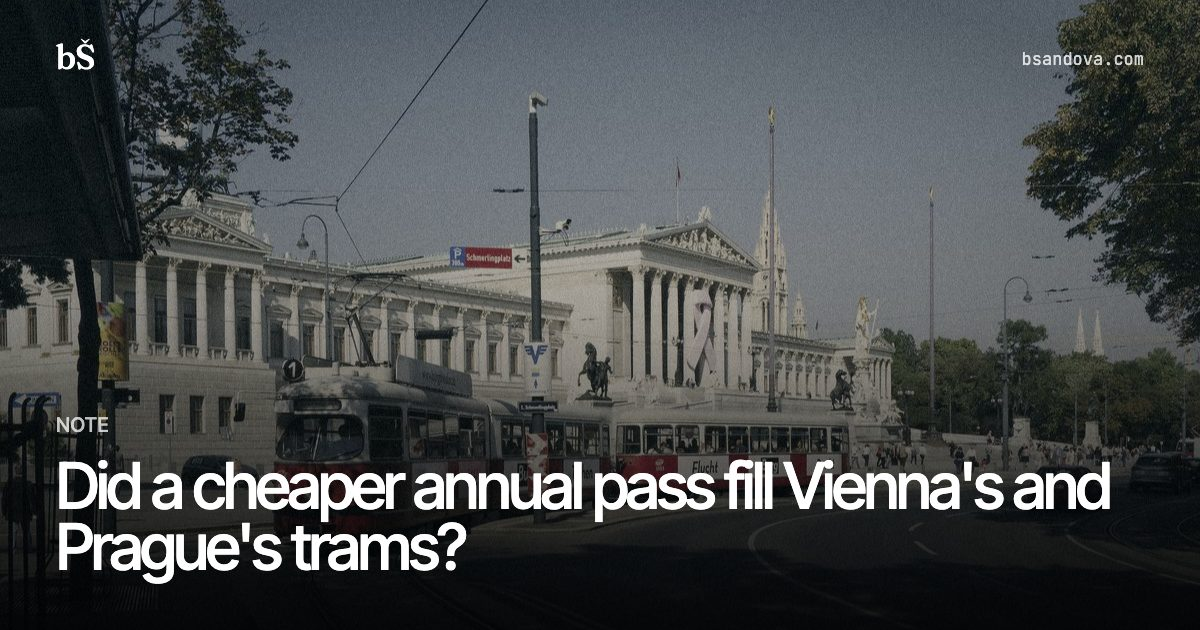
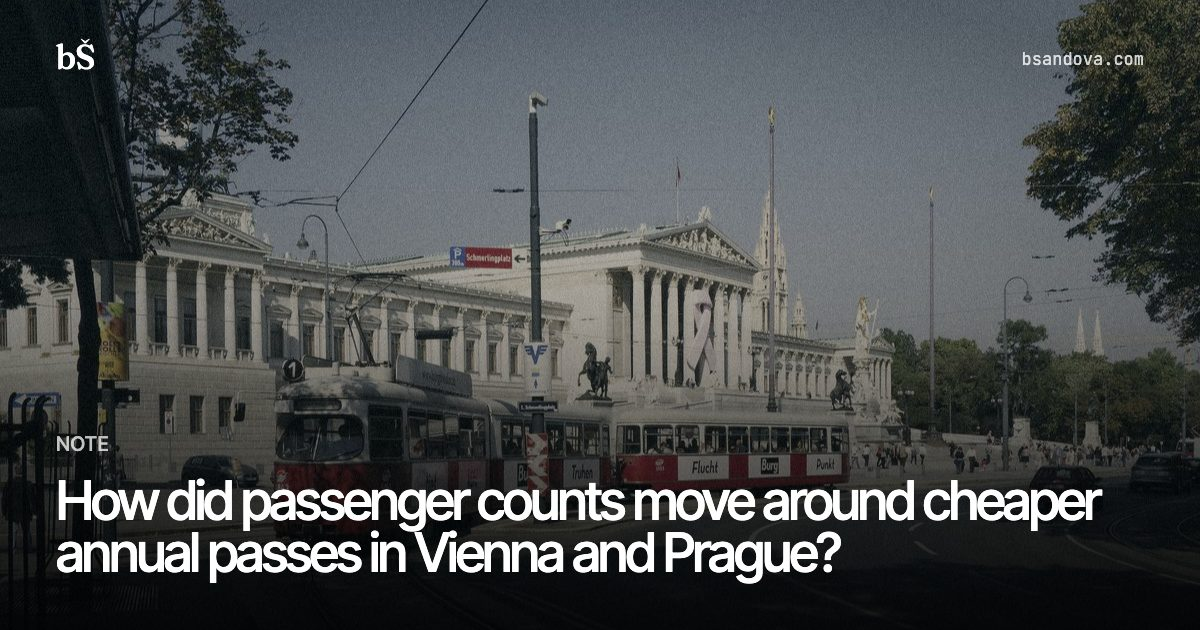
hotfix(site): descriptive titles and wording left over from the site-wide review

Changed region(s): [[0.0308, 0.6635, 0.925, 0.9349]]

diff --git a/texts/annual-pass.html b/texts/annual-pass.html
@@ -3,9 +3,9 @@
 <head>
 <meta charset="utf-8">
 <meta name="viewport" content="width=device-width, initial-scale=1">
-<title>Did a cheaper annual pass fill Vienna's and Prague's trams? · Barbora Šandová</title>
+<title>How did passenger counts move around cheaper annual passes in Vienna and Prague? · Barbora Šandová</title>
 <meta name="description" content="A descriptive note: annual passengers in Vienna, Prague and Brno, 2005–2025, around the annual-pass cuts of 2012 and 2015, and Berlin around the 9-euro ticket and the Deutschlandticket. No effect is estimated: the published data allow no fair comparison.">
-<meta property="og:title" content="Did a cheaper annual pass fill Vienna's and Prague's trams?">
+<meta property="og:title" content="How did passenger counts move around cheaper annual passes in Vienna and Prague?">
 <meta property="og:description" content="Vienna's passengers grew faster before its 2012 price cut than after it; Prague's counts change method a year before its 2015 cut. Why the published data cannot answer the question.">
 <meta property="og:type" content="article">
 <meta property="og:url" content="https://bsandova.com/texts/annual-pass">
@@ -34,7 +34,7 @@
 </style>
 
 <!-- ld --><link rel="alternate" type="application/atom+xml" title="Barbora Šandová" href="/feed.xml">
-<script type="application/ld+json">{"@context": "https://schema.org", "@type": "Article", "headline": "Did a cheaper annual pass fill Vienna's and Prague's trams?", "description": "A descriptive note: annual passengers in Vienna, Prague and Brno, 2005–2025, around the annual-pass cuts of 2012 and 2015, and Berlin around the 9-euro ticket and the Deutschlandticket. No effect is estimated: the published data allow no fair comparison.", "url": "https://bsandova.com/texts/annual-pass", "image": "https://bsandova.com/assets/og/annual-pass.jpg", "author": {"@type": "Person", "name": "Barbora Šandová", "url": "https://bsandova.com/"}}</script><!-- /ld -->
+<script type="application/ld+json">{"@context": "https://schema.org", "@type": "Article", "headline": "How did passenger counts move around cheaper annual passes in Vienna and Prague?", "description": "A descriptive note: annual passengers in Vienna, Prague and Brno, 2005–2025, around the annual-pass cuts of 2012 and 2015, and Berlin around the 9-euro ticket and the Deutschlandticket. No effect is estimated: the published data allow no fair comparison.", "url": "https://bsandova.com/texts/annual-pass", "image": "https://bsandova.com/assets/og/annual-pass.jpg", "author": {"@type": "Person", "name": "Barbora Šandová", "url": "https://bsandova.com/"}}</script><!-- /ld -->
 </head>
 <body>
 <div class="top"><b><a href="../" aria-label="bŠ, bsandova.com, home">bŠ</a></b><nav><a href="../#work">Work</a><a href="../#works">All work</a><a href="../#about">About</a><a href="../ask/" class="ask-link">Ask</a><a href="../#contact">Contact</a></nav><span class="tr">note · transit · en</span></div>
@@ -42,7 +42,7 @@
 <article class="text">
 <header class="text-head">
   <p class="kicker">Note · transit · annual passes in Vienna, Prague and Brno, 2005–2025</p>
-  <h1>Did a cheaper annual pass fill <em>Vienna's and Prague's trams?</em></h1>
+  <h1>How did passenger counts move around <em>cheaper annual passes in Vienna and Prague?</em></h1>
   <p class="deck">Vienna cut its annual pass in 2012 and Prague in 2015. The published passenger counts cannot say what the cuts did: too few cities count passengers the same way every year, most of the region cut prices too, and Prague changed how it counts a year before its cut. This note shows the series and why they cannot carry an estimate.</p>
   <dl class="facts">
     <div><dt>annual-pass cut</dt><dd>−19 % · −23 % <small>Vienna 1 May 2012, €449 → €365 · Prague 1 July 2015, CZK 4&nbsp;750 → 3&nbsp;650 · tariff documents</small></dd></div>
@@ -62,7 +62,7 @@
   </ul>
 </details>
 <dl class="meta">
-  <div><dt>published</dt><dd>6 October 2026 · updated 9 October 2026 · <a href="../changelog/#annual-pass">version 2</a></dd></div>
+  <div><dt>published</dt><dd>6 October 2026 · updated 9 October 2026 · <a href="../changelog/#annual-pass">version 3</a></dd></div>
   <div><dt>work since</dt><dd>October 2026</dd></div>
 </dl>
 <details class="meta-more">
@@ -72,7 +72,7 @@
   <div><dt>registration</dt><dd>registered analysis plan: design committed at <code>64cd225</code> on 5 October 2026, before the passenger counts were committed at <code>8be63f3</code> on 6 October 2026; commit times are self-reported. GitHub's activity log shows the design on the public branch from 21:36 UTC on 5 October 2026; a push is not a tamper-evident anchor. The synthetic-control design and the staggered difference-in-differences that replaced it (<code>4cbd737</code>) were both found not estimable by their own unit rules, and the study became this note on 6 October 2026<sup class="cite"><a href="#r1">1</a></sup>. Changes, including the extension of the window to 2025 and the Berlin and Germany block, are dated in <a href="../changelog/#annual-pass">the change log</a>.</dd></div>
   <div><dt>data</dt><dd>operator and statistics-office passenger counts and tariff documents, collected 6 October 2026<sup class="cite"><a href="#r2">2</a></sup><sup class="cite"><a href="#r3">3</a></sup><sup class="cite"><a href="#r4">4</a></sup><sup class="cite"><a href="#r5">5</a></sup><sup class="cite"><a href="#r6">6</a></sup>; every row with its source in <a href="../assets/transit/passengers.csv">passengers.csv</a> and <a href="../assets/transit/prices.csv">prices.csv</a></dd></div>
   <div><dt>code</dt><dd><a href="https://github.com/sandovabarbora/bsandova.com/tree/main/tools/transit">tools/transit/</a>; figures: <code>uv run --with matplotlib --with pandas python tools/transit/note.py</code></dd></div>
-  <div><dt>cite as</dt><dd>Šandová, B. (2026). <i>Did a cheaper annual pass fill Vienna's and Prague's trams?</i> bsandova.com/texts/annual-pass, version 2.</dd></div>
+  <div><dt>cite as</dt><dd>Šandová, B. (2026). <i>How did passenger counts move around cheaper annual passes in Vienna and Prague?</i> bsandova.com/texts/annual-pass, version 3.</dd></div>
   <div><dt>licence</dt><dd>code MIT; text, figures and data CC BY 4.0</dd></div>
 </dl>
 </details>

diff --git a/texts/prague-programmes-2026.html b/texts/prague-programmes-2026.html
@@ -82,7 +82,7 @@ details.prog[open]>summary::after{content:"−"}
 <article class="text">
 <header class="text-head">
   <p class="kicker">Note · 1 October 2026 · Prague city election programmes</p>
-  <h1>What Prague's 2026 programmes can do <em>in one term</em></h1>
+  <h1>What can Prague's 2026 programmes deliver <em>in one term?</em></h1>
   <p class="deck">Six programmes for the October 2026 Prague city election, read against one rule: what the City of Prague can do within four years under its own powers.</p>
   <dl class="facts">
     <div><dt>promises read</dt><dd>80 <small>six programmes · rows chosen by the author · descriptive count</small></dd></div>
@@ -103,7 +103,7 @@ details.prog[open]>summary::after{content:"−"}
   </ul>
 </details>
 <dl class="meta">
-  <div><dt>published</dt><dd>1 October 2026 · updated 8 October 2026 · <a href="../changelog/#prague-programmes-2026">version 5</a></dd></div>
+  <div><dt>published</dt><dd>1 October 2026 · updated 9 October 2026 · <a href="../changelog/#prague-programmes-2026">version 5</a></dd></div>
   <div><dt>work since</dt><dd>September 2026</dd></div>
 </dl>
 <details class="meta-more">
@@ -798,7 +798,7 @@ details.prog[open]>summary::after{content:"−"}
 <li id="r10">Zákon č. 372/2011 Sb., o zdravotních službách, §111 odst. 1 (university hospitals are state organisations founded by the Ministry of Health). <a href="https://www.zakonyprolidi.cz/cs/2011-372">www.zakonyprolidi.cz/cs/2011-372</a> Accessed 1 October 2026.</li>
 <li id="r11">Zákon č. 201/2012 Sb., o ochraně ovzduší, §14 odst. 1 and 6 (the municipal council sets a low-emission zone by a general measure, effective at least 12 months after it is announced) and §14a odst. 1 and 7 (the municipality may add a low-emission fee by ordinance, at most 500 Kč a day times the inflation coefficient). <a href="https://www.zakonyprolidi.cz/cs/2012-201">www.zakonyprolidi.cz/cs/2012-201</a> Accessed 1 October 2026.</li>
 <li id="r12">Zákon č. 338/1992 Sb., o dani z nemovitých věcí, version effective 1 October 2025, §12 odst. 1 (a local coefficient of 0.5–5, set by ordinance for the whole municipality, a part of it or a group of property, or by a general measure of the assembly for specified, named properties; the law has no category for empty flats). <a href="https://www.zakonyprolidi.cz/cs/1992-338">www.zakonyprolidi.cz/cs/1992-338</a> Accessed 1 October 2026.</li>
-<li id="r13">Šandová, B. (2026). How long does a Prague flat take, from permit to completion? (Prague, measured, Part 4): 4.5 completions per 1 000 residents a year, 2015–2024; permit to completion about 11 months longer than elsewhere in Czechia, a difference in the recorded pipeline that may partly be reporting timing and says nothing about how long the permit itself takes. <a href="https://bsandova.com/texts/prague-housing">bsandova.com/texts/prague-housing</a> Accessed 1 October 2026.</li>
+<li id="r13">Šandová, B. (2026). Do completions follow permits later in Prague than in the rest of Czechia? (Prague, measured, Part 4): 4.5 completions per 1 000 residents a year, 2015–2024; permit to completion about 11 months longer than elsewhere in Czechia, a difference in the recorded pipeline that may partly be reporting timing and says nothing about how long the permit itself takes. <a href="https://bsandova.com/texts/prague-housing">bsandova.com/texts/prague-housing</a> Accessed 1 October 2026.</li>
 <li id="r14">Dopravní podnik hl. m. Prahy, Metro D: &#x27;Plán zprovoznění: 2032&#x27; (planned opening 2032); schedule (harmonogram) as of 8 April 2026. <a href="https://www.dpp.cz/metro-d">www.dpp.cz/metro-d</a> Accessed 3 October 2026.</li>
 <li id="r15">Nařízení (EU) 2024/1028 o shromažďování a sdílení údajů týkajících se služeb krátkodobého pronájmu ubytování (registration and data sharing for short-term rentals; applies from 20 May 2026). <a href="https://eur-lex.europa.eu/eli/reg/2024/1028/oj">eur-lex.europa.eu/eli/reg/2024/1028/oj</a> Accessed 3 October 2026.</li>
 <li id="r16">Obecně závazná vyhláška hl. m. Prahy č. 18/2019 Sb. hl. m. Prahy, o místním poplatku z pobytu, §3 (the rate is 50 Kč a person for each day begun). Accessed 3 October 2026.</li>

diff --git a/texts/running-late.html b/texts/running-late.html
@@ -4,9 +4,9 @@
 <meta charset="utf-8">
 <meta name="viewport" content="width=device-width, initial-scale=1">
 <title>Running late · Barbora Šandová</title>
-<meta name="description" content="Pre-specified studies of where and why Prague's trams fall behind, from the stop passes of 2025: a tenth of the segments record 50.6 % of the delay, narrowly, the same ones in odd and even weeks; and the spacing between two trams of a line shows practically no amplification from stop to stop; and a connection planned three minutes apart is made 80 times in a hundred.">
+<meta name="description" content="Pre-specified studies of where and how Prague's trams fall behind, from the stop passes of 2025: a tenth of the segments record 50.6 % of the delay, narrowly, the same ones in odd and even weeks; and the spacing between two trams of a line shows practically no amplification from stop to stop; and a connection planned three minutes apart is made 80 times in a hundred.">
 <meta property="og:title" content="Running late">
-<meta property="og:description" content="Where and why Prague's trams fall behind, one pre-specified question at a time: where delay is recorded, why two trams of a line come at once, and whether you make your connection.">
+<meta property="og:description" content="Where and how Prague's trams fall behind, one pre-specified question at a time: where delay is recorded, why two trams of a line come at once, and whether you make your connection.">
 <meta property="og:type" content="article">
 <meta property="og:url" content="https://bsandova.com/texts/running-late">
 <meta property="og:image" content="https://bsandova.com/assets/og/running-late.jpg">
@@ -28,7 +28,7 @@
 <header class="text-head">
   <p class="kicker">Hub · Running late · Prague trams and buses, spring and summer 2025</p>
   <h1>Running <em>late</em></h1>
-  <p class="deck">Where and why Prague's trams fall behind, asked one question at a time of the stop passes behind the author's thesis, each question registered before the data that answers it was read.</p>
+  <p class="deck">Where and how Prague's trams fall behind, asked one question at a time of the stop passes behind the author's thesis, each question registered before the data that answers it was read.</p>
   <dl class="facts">
     <div><dt>parts published</dt><dd>3 <small>numbered by publication order</small></dd></div>
     <div><dt>design committed</dt><dd>8 Oct 2026 <small>CEST, commit times self-reported</small></dd></div>
@@ -82,7 +82,7 @@
 </section>
 
 <section>
-<p>The series sits next to <a href="weather-rails">Weather on the rails</a>, which asks what rain and heat do to the same trams.</p>
+<p>The series sits next to <a href="weather-rails">Weather on the rails</a>, which describes how the same trams' delays differ in rain and heat.</p>
 </section>
 
 <footer class="text-foot">

diff --git a/docs/changelogs/prague-programmes-2026.html b/docs/changelogs/prague-programmes-2026.html
@@ -1,4 +1,5 @@
 <ul>
+<li>9 October 2026: reference 13 now cites Part 4 of Prague, measured under its current title, "Do completions follow permits later in Prague than in the rest of Czechia?" (it was retitled on 9 October 2026); its wording is unchanged. The heading now asks the same question as the title ("What can Prague's 2026 programmes deliver in one term?"), which the retitling of 6 October 2026 had left as "What Prague's 2026 programmes can do in one term". No rating or number changed.</li>
 <li>8 October 2026: promises within each programme listed from yes to 'state or another body'; fig. 1 shows shares instead of counts and orders the programmes by the share rated yes or likely, with a sentence on what that order does not measure. No rating or number changed.</li>
 <li>8 October 2026, version 5, after a second review of every row: a chart of the ratings by programme and filters by rating were added, and the five ratings are set out as a list. Corrected: a low-emission zone can carry an entry fee set by the City Assembly's ordinance since the 2026 amendment of the air protection act (the Piráti row had said it needed a law); residents' parking prices follow the price rules within zones the city sets; a change of the Statute is discussed with the districts. Seven ratings changed, so the counts changed ('within the city's powers' from 28 to 31; yes from 11 to 9, likely from 17 to 22, partly from 34 to 32, 'state or another body' from 14 to 13, not in one term unchanged at 4): SPD's motorway ring and radials from 'state or another body' to partly, because the radials are city roads; SPD's points system for city flats from yes to likely, because how far priority for locals can go is unsettled; STAN's district funding from yes to likely, because the districts must be consulted; STAN's Vltava Philharmonic and 2 000 flats started, and Praha Sobě's 8 000 flats prepared, from partly to likely, because the promise is a start or preparation. Short-term rentals are now described the same way in every row, with the EU registration rules from May 2026; citations that did not support their sentence were removed (the public transport act from tram lines and step-free stops, the Constitution from the pre-emption right); the tourist fee is '50 Kč a person a night' throughout; ANO's source, a candidate page rather than a programme, is stated in the method. No other number changed.</li>
 <li>6 October 2026: retitled from "What Prague's 2026 programmes can do in one term" to a question; text and numbers unchanged.</li>

diff --git a/docs/changelogs/bunching.html b/docs/changelogs/bunching.html
@@ -11,6 +11,7 @@
 </ul>
 <h4>Change log</h4>
 <ul>
+<li>9 October 2026: the page description says the rare sudden closings concentrate on some platforms "and partly by line" instead of "partly because of one line", the wording of the article, which locates the closings but does not explain them. No number or finding changed.</li>
 <li>9 October 2026: the link to part 1 of Weather on the rails carries that article's new title, "Are Prague's trams later in rain hours?"; nothing else changed.</li>
 <li>8 October 2026, version 2, after an independent review: retitled "Why do two 22s come at once? Tram bunching in Prague, 2025" (the analysis covers pairs only; the URL is kept). Amplification relabelled from "not supported" to "inconclusive" (the registered rule had been applied in the wrong order), read as practically zero, with the sign flipping without timing-point stops and on departures. Concentration of sudden closings keeps its registered "supported" but is no longer read as places that make bunches: re-openings, the reversed-order placebo and closings to under a third of the gap concentrate as much or more, and a post-hoc null within route variants gives a lower ratio. Stability of the places keeps "not supported", now marked uninformative, with a stable line effect as an alternative reading. The link to part 1 keeps "supported", now marked not informative (built in), and leaves the short version. The shuffle is no longer read as showing bunches build as fast as independent drift: it lets trams swap order and is not a valid benchmark near zero. "Where the spacing suddenly closes it also suddenly reopens" replaced by the counts of closings and re-openings and what the platform correlation measures. The dropped trips with a missing row and the floor this sets on bunching shares are stated, with the full account of how bunches form. Wording: the first-stage coefficient, "eligible pair-stops", 0.9989 shown unrounded, Anderson and Hsiao as the inspiration of the estimator, holding at long-dwell stops as an inference, the TCQSM cut-offs as unchecked conventions, the range of the amplification by line, and the bus estimate set against the spread of the tram estimates. Review claims reworded: the design draft was reviewed twice by an independent model-based reviewer; the article's review before publication was a self-review by the agent that wrote it. Registration tags cited beside the commit hashes.</li>
 <li>8 October 2026, version 1: first published, as part 2 of Running late.</li>

diff --git a/index.html b/index.html
@@ -290,7 +290,7 @@ main :focus-visible,.ft :focus-visible{outline-color:currentColor}
         <li class="sub"><a href="texts/delay-origins"><span class="t">Part 1 · Where is delay born on Prague&#x27;s trams?</span><span class="c">Research</span><span class="s">pre-specified</span><span class="y" title="published 8 Oct 2026">Oct 2026</span></a></li>
         <li class="sub"><a href="texts/bunching"><span class="t">Part 2 · Why do two 22s come at once? Tram bunching in Prague, 2025</span><span class="c">Research</span><span class="s">pre-specified</span><span class="y" title="published 8 Oct 2026">Oct 2026</span></a></li>
         <li class="sub"><a href="texts/transfers"><span class="t">Part 3 · Will you make your connection?</span><span class="c">Research</span><span class="s">pre-specified</span><span class="y" title="published 8 Oct 2026">Oct 2026</span></a></li>
-        <li><a href="texts/annual-pass"><span class="t">Did a cheaper annual pass fill Vienna&#x27;s and Prague&#x27;s trams?</span><span class="c">Note</span><span class="s">note, descriptive</span><span class="y" title="published 6 Oct 2026">Oct 2026</span></a></li>
+        <li><a href="texts/annual-pass"><span class="t">How did passenger counts move around cheaper annual passes in Vienna and Prague?</span><span class="c">Note</span><span class="s">note, descriptive</span><span class="y" title="published 6 Oct 2026">Oct 2026</span></a></li>
         <li><a href="texts/dst-darkness"><span class="t">When the clocks go back: evening darkness and pedestrian crashes in Czechia</span><span class="c">Research</span><span class="s">pre-specified</span><span class="y" title="published 3 Oct 2026">Oct 2026</span></a></li>
         <li><a href="texts/delayed"><span class="t">Delayed All the Time: Prague public transport as sound</span><span class="c">Note · sonification</span><span class="s">note</span><span class="y" title="published 14 Sep 2026">Sep 2026</span></a></li>
         <li><a href="texts/thesis"><span class="t">Persistence Dynamics and Welfare Costs of Urban Public Transport Delays</span><span class="c">Master&#x27;s thesis · Charles University</span><span class="s">exploratory</span><span class="y">Jul 2026</span></a></li>

diff --git a/docs/changelogs/annual-pass.html b/docs/changelogs/annual-pass.html
@@ -1,4 +1,5 @@
 <ul>
+<li>9 October 2026, version 3: retitled from "Did a cheaper annual pass fill Vienna's and Prague's trams?" to "How did passenger counts move around cheaper annual passes in Vienna and Prague?" (URL unchanged), because the old title asked a causal question that a descriptive note cannot answer; title, heading, share card and citation updated. No number changed.</li>
 <li>9 October 2026, version 2, corrections: "3 of 17 cities with a clean series" is now "3 → 2 of 17": the panel screen as run passed Vienna, Prague and Brno (<code>annual-pass-panel-units.md</code>), and on re-reading Prague fails its rule 1 because of the 2014 change of counting method, which leaves two. Brno did not "keep its price": its pass rose in December 2008 (3 700 → 4 430 CZK) and January 2012 (→ 4 750 CZK), per the IDS JMK price lists in <code>prices.csv</code>, and has been unchanged since 2012. Vienna's growth after the cut is now given for 2011–2019 (1.2 % a year), with the +3.6 % step from 2011 to 2012 stated, instead of 2012–2019 (0.8 %), which left the cut year's step out. "Often credited with filling its trams" is softened to "became a reference for other cities", as no source for the claim is cited; "in the years of the cheap tickets" and "recovered after the cheap tickets" are reworded so that they do not imply an effect. Confounders are named: the U2 extensions of 2008, 2010 and 2013 and the wider tariff change of 1 May 2012. The design row is replaced by a registration row in the wording of the editorial standard, §6, citing <code>64cd225</code>.</li>
 <li>9 October 2026, deviations not logged at publication: the designs' windows end in 2016 (synthetic control) and 2019 (staggered design), but the note shows the three cities' series to 2025; and the design named Berlin and "other German Länder" for the descriptive block, while the note shows Berlin and Germany as a whole. Both choices were made on 6 October 2026, when the study became a descriptive note, and are recorded here after the fact.</li>
 <li>6 October 2026: figures redrawn with a takeaway line, notes at the key points, labels at line ends and one colour per city; no number changed.</li>

diff --git a/docs/changelogs/running-late.html b/docs/changelogs/running-late.html
@@ -1,4 +1,5 @@
 <ul>
+<li>9 October 2026: wording made descriptive: the deck, description and social card say "where and how" Prague's trams fall behind instead of "where and why", and the link to Weather on the rails says it describes how the same trams' delays differ in rain and heat, instead of asking "what rain and heat do" to them. No number or finding changed.</li>
 <li>8 October 2026, version 5: part 3's summary corrected after a model-based review: the co-movement given with its range across specifications and the differences between pairs of lines, the bounds that overwrote observed outcomes removed, and no cause implied.</li>
 <li>8 October 2026, version 4: part 3 added (whether a tram connection is made), with its bounds in the summary; the section on the next question removed.</li>
 <li>8 October 2026, version 3: part 2 retitled "Why do two 22s come at once? Tram bunching in Prague, 2025" and its summary corrected after its version 2: amplification is inconclusive by the registered rule, not "not supported", and practically zero; bunching is a floor; the comparison with independent drift and the clustering "where spacing is volatile" are no longer claimed; the bus contrast is stated as about the size of the spread among the tram estimates.</li>

diff --git a/tools/bunch/template.html b/tools/bunch/template.html
@@ -4,7 +4,7 @@
 <meta charset="utf-8">
 <meta name="viewport" content="width=device-width, initial-scale=1">
 <title>Why do two 22s come at once? Tram bunching in Prague, 2025</title>
-<meta name="description" content="A pre-specified analysis of {{pairs}} pairs of Prague trams in 2025: the spacing between two trams of a line drifts apart and together stop by stop with practically no amplification, bunches build gradually towards the end of a line, and the rare sudden closings concentrate on some platforms, partly because of one line.">
+<meta name="description" content="A pre-specified analysis of {{pairs}} pairs of Prague trams in 2025: the spacing between two trams of a line drifts apart and together stop by stop with practically no amplification, bunches build gradually towards the end of a line, and the rare sudden closings concentrate on some platforms, and partly by line.">
 <meta property="og:title" content="Why do two 22s come at once? Tram bunching in Prague, 2025">
 <meta property="og:description" content="Two trams of the same Prague line drift apart and together stop by stop with practically no amplification; bunches build slowly towards the end of the line. Part 2 of Running late.">
 <meta property="og:type" content="article">

diff --git a/texts/bunching.html b/texts/bunching.html
@@ -4,7 +4,7 @@
 <meta charset="utf-8">
 <meta name="viewport" content="width=device-width, initial-scale=1">
 <title>Why do two 22s come at once? Tram bunching in Prague, 2025</title>
-<meta name="description" content="A pre-specified analysis of 243 465 pairs of Prague trams in 2025: the spacing between two trams of a line drifts apart and together stop by stop with practically no amplification, bunches build gradually towards the end of a line, and the rare sudden closings concentrate on some platforms, partly because of one line.">
+<meta name="description" content="A pre-specified analysis of 243 465 pairs of Prague trams in 2025: the spacing between two trams of a line drifts apart and together stop by stop with practically no amplification, bunches build gradually towards the end of a line, and the rare sudden closings concentrate on some platforms, and partly by line.">
 <meta property="og:title" content="Why do two 22s come at once? Tram bunching in Prague, 2025">
 <meta property="og:description" content="Two trams of the same Prague line drift apart and together stop by stop with practically no amplification; bunches build slowly towards the end of the line. Part 2 of Running late.">
 <meta property="og:type" content="article">

diff --git a/tools/notes/programmes_2026.template.html b/tools/notes/programmes_2026.template.html
@@ -82,7 +82,7 @@ details.prog[open]>summary::after{content:"−"}
 <article class="text">
 <header class="text-head">
   <p class="kicker">Note · 1 October 2026 · Prague city election programmes</p>
-  <h1>What Prague's 2026 programmes can do <em>in one term</em></h1>
+  <h1>What can Prague's 2026 programmes deliver <em>in one term?</em></h1>
   <p class="deck">Six programmes for the October 2026 Prague city election, read against one rule: what the City of Prague can do within four years under its own powers.</p>
   <dl class="facts">
     <div><dt>promises read</dt><dd>{{N}} <small>six programmes · rows chosen by the author · descriptive count</small></dd></div>
@@ -103,7 +103,7 @@ details.prog[open]>summary::after{content:"−"}
   </ul>
 </details>
 <dl class="meta">
-  <div><dt>published</dt><dd>1 October 2026 · updated 8 October 2026 · <a href="../changelog/#prague-programmes-2026">version 5</a></dd></div>
+  <div><dt>published</dt><dd>1 October 2026 · updated 9 October 2026 · <a href="../changelog/#prague-programmes-2026">version 5</a></dd></div>
   <div><dt>work since</dt><dd>September 2026</dd></div>
 </dl>
 <details class="meta-more">

diff --git a/tools/late/hub.py b/tools/late/hub.py
@@ -52,9 +52,9 @@ TEMPLATE = '''<!doctype html>
 <meta charset="utf-8">
 <meta name="viewport" content="width=device-width, initial-scale=1">
 <title>Running late · Barbora Šandová</title>
-<meta name="description" content="Pre-specified studies of where and why Prague's trams fall behind, from the stop passes of 2025: a tenth of the segments record {{S}} % of the delay, narrowly, the same ones in odd and even weeks; and the spacing between two trams of a line shows practically no amplification from stop to stop; and a connection planned three minutes apart is made {{m3}} times in a hundred.">
+<meta name="description" content="Pre-specified studies of where and how Prague's trams fall behind, from the stop passes of 2025: a tenth of the segments record {{S}} % of the delay, narrowly, the same ones in odd and even weeks; and the spacing between two trams of a line shows practically no amplification from stop to stop; and a connection planned three minutes apart is made {{m3}} times in a hundred.">
 <meta property="og:title" content="Running late">
-<meta property="og:description" content="Where and why Prague's trams fall behind, one pre-specified question at a time: where delay is recorded, why two trams of a line come at once, and whether you make your connection.">
+<meta property="og:description" content="Where and how Prague's trams fall behind, one pre-specified question at a time: where delay is recorded, why two trams of a line come at once, and whether you make your connection.">
 <meta property="og:type" content="article">
 <meta property="og:url" content="https://bsandova.com/texts/running-late">
 <meta property="og:image" content="https://bsandova.com/assets/og/running-late.jpg">
@@ -76,7 +76,7 @@ TEMPLATE = '''<!doctype html>
 <header class="text-head">
   <p class="kicker">Hub · Running late · Prague trams and buses, spring and summer 2025</p>
   <h1>Running <em>late</em></h1>
-  <p class="deck">Where and why Prague's trams fall behind, asked one question at a time of the stop passes behind the author's thesis, each question registered before the data that answers it was read.</p>
+  <p class="deck">Where and how Prague's trams fall behind, asked one question at a time of the stop passes behind the author's thesis, each question registered before the data that answers it was read.</p>
   <dl class="facts">
     <div><dt>parts published</dt><dd>3 <small>numbered by publication order</small></dd></div>
     <div><dt>design committed</dt><dd>8 Oct 2026 <small>CEST, commit times self-reported</small></dd></div>
@@ -130,7 +130,7 @@ TEMPLATE = '''<!doctype html>
 </section>
 
 <section>
-<p>The series sits next to <a href="weather-rails">Weather on the rails</a>, which asks what rain and heat do to the same trams.</p>
+<p>The series sits next to <a href="weather-rails">Weather on the rails</a>, which describes how the same trams' delays differ in rain and heat.</p>
 </section>
 
 <footer class="text-foot">
